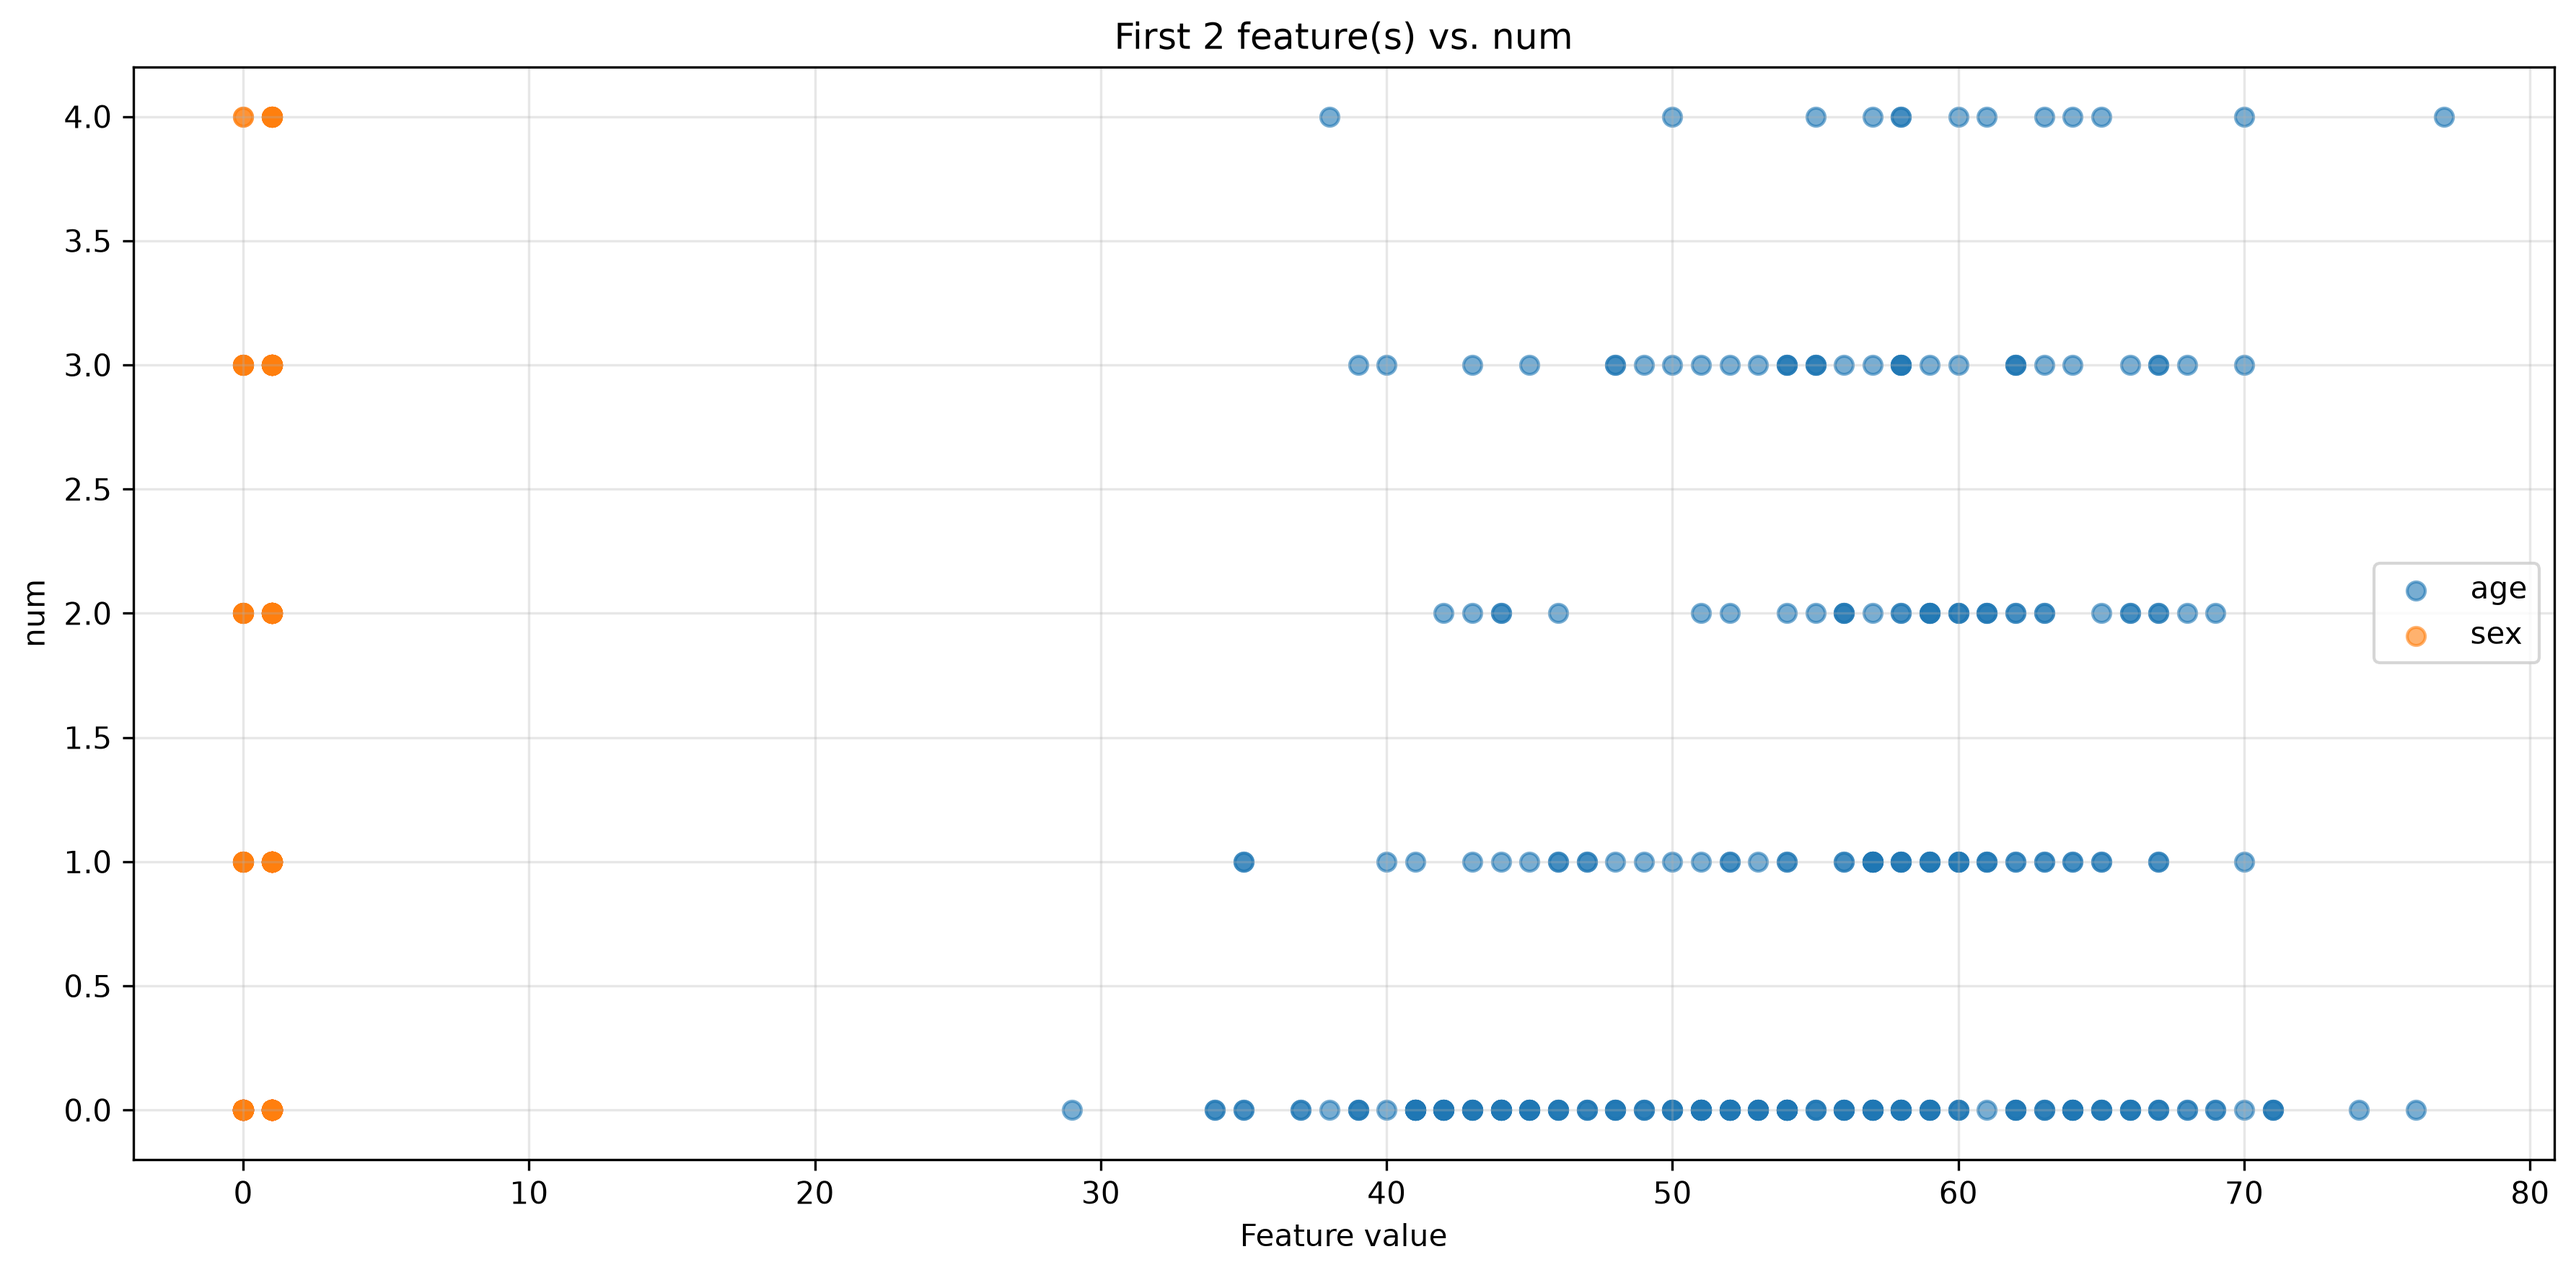
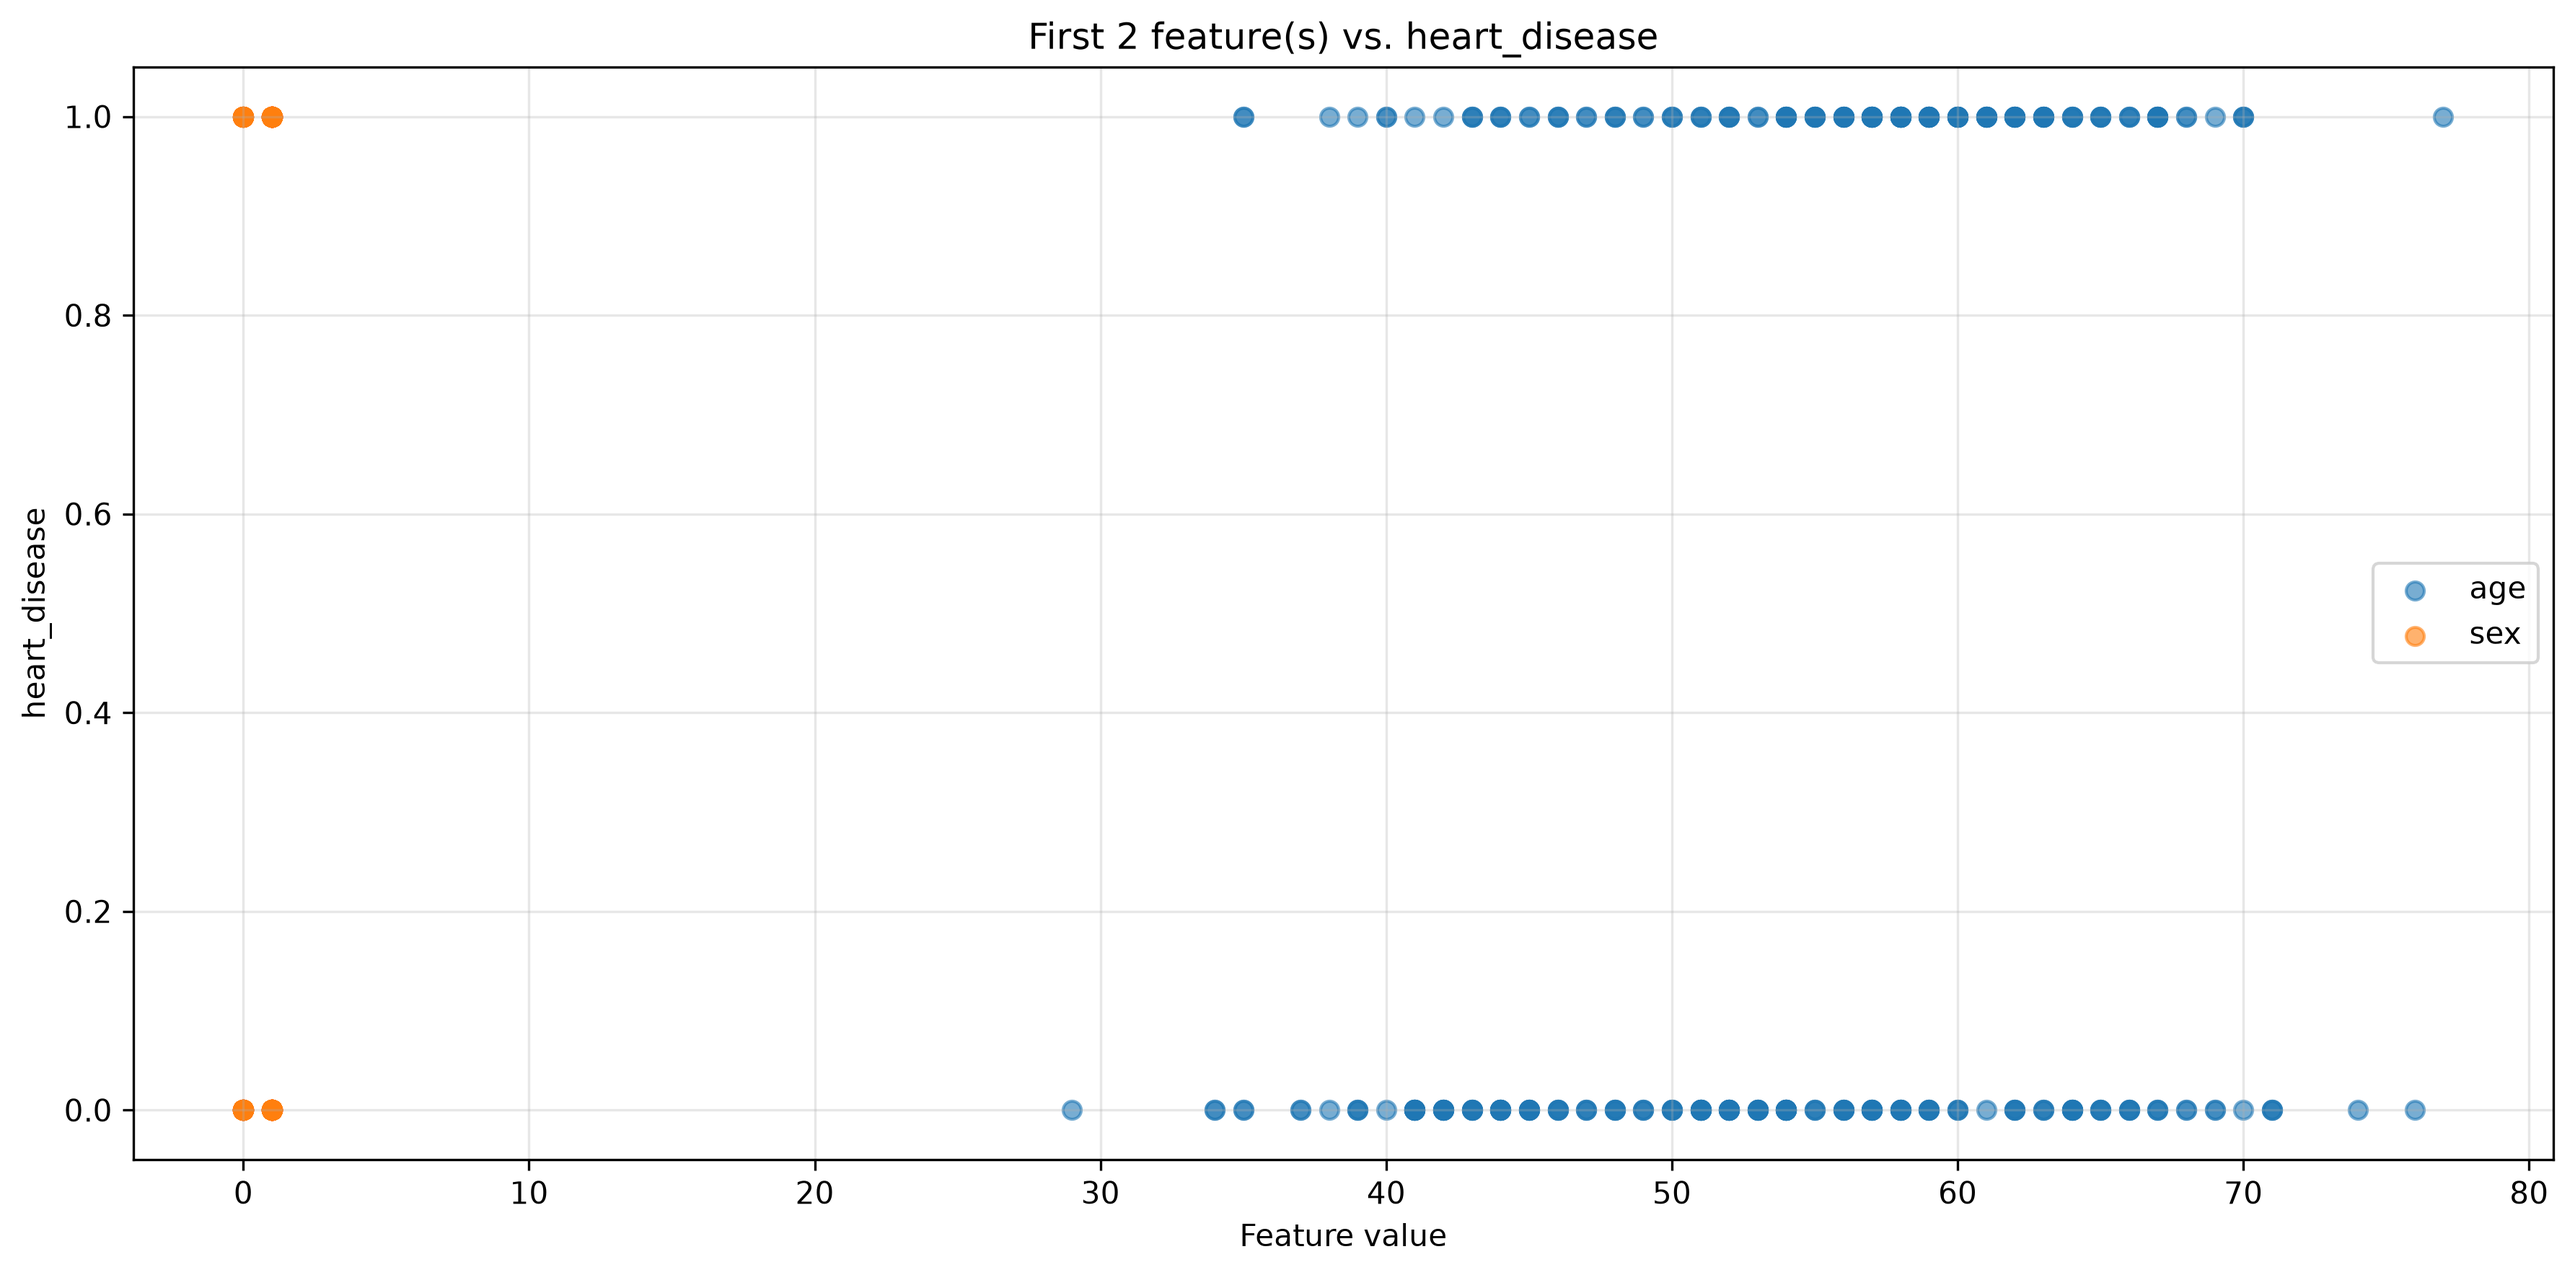
Collapsed target values to just 0 and 1 from dataset. Needed for binary classification problems

diff --git a/preprocessing.py b/preprocessing.py
@@ -1,0 +1,39 @@
+import pandas as pd
+
+
+def make_binary_target(target: pd.DataFrame) -> pd.DataFrame:
+    """
+    Converts the Cleveland heart-disease severity values to 0/1 labels, 
+    needed for binary classification problems.
+
+    The Cleveland target uses 0 for no disease and 1-4 for disease
+    severity. The returned DataFrame keeps one target column so it can be
+    passed to the existing plotting and modeling code.
+    
+    
+    @Param target - Takes in a DataFrame object
+    @returns a DataFrame object of only 0s and 1's. 
+    """
+    
+    # y (target) should be 1 column
+    if target.shape[1] != 1:
+        raise ValueError("The target must contain exactly one column")
+
+    # Extracts single column by pos
+    target_values = target.iloc[:, 0]
+    
+    # Refuse lables NaN
+    if target_values.isna().any():
+        raise ValueError("The target contains missing values")
+
+    # Keep anyting not 0-4
+    unexpected_values = set(target_values.unique()) - {0, 1, 2, 3, 4}
+    
+    # If unexpected values present
+    if unexpected_values:
+        raise ValueError(
+            f"Unexpected target value(s): {sorted(unexpected_values)}"
+        )
+
+    # Return Data frame of 0 and 1's via comparison. 
+    return (target_values > 0).astype("int64").to_frame(name="heart_disease")

diff --git a/loaddata.py b/loaddata.py
@@ -5,12 +5,17 @@ import matplotlib.pyplot as plt
 import os
 from pathlib import Path
 from plotting import graph_with_multiple_x_values
+from preprocessing import make_binary_target
+
+
 # fetch dataset 
 heart_disease = fetch_ucirepo(id=45) 
   
 # data (as pandas dataframes) 
 X = heart_disease.data.features 
 y = heart_disease.data.targets 
+y_raw = y.copy()
+y = make_binary_target(y)
   
 # metadata 
 print(heart_disease.metadata) 
@@ -20,7 +25,8 @@ print(heart_disease.variables)
 
 
 print(f"Data or Matrix X initially:\n{X}")
-print(f"y initially:\n{y}")
+print(f"Raw y (severity):\n{y_raw}")
+print(f"Binary y (classification target):\n{y}")
 
 # Excluded num, num is the target
 feature_names = ["age", "sex", "cp", "trestbps", "chol", "fbs", "restecg", "thalach", "exang", "oldpeak", "slope", "ca", "thal"]

diff --git a/plotting.py b/plotting.py
@@ -65,7 +65,7 @@ def graph_with_multiple_x_values(
         )
         plt.close(figure)
 
-    # Save one separate feature-vs-target graph for every feature.
+    # Save one separate feature-vs-target graph for every feature. 
     for feature_index, feature_name in enumerate(feature_names):
         figure, axis = plt.subplots(figsize=(9, 6))
         axis.scatter(
